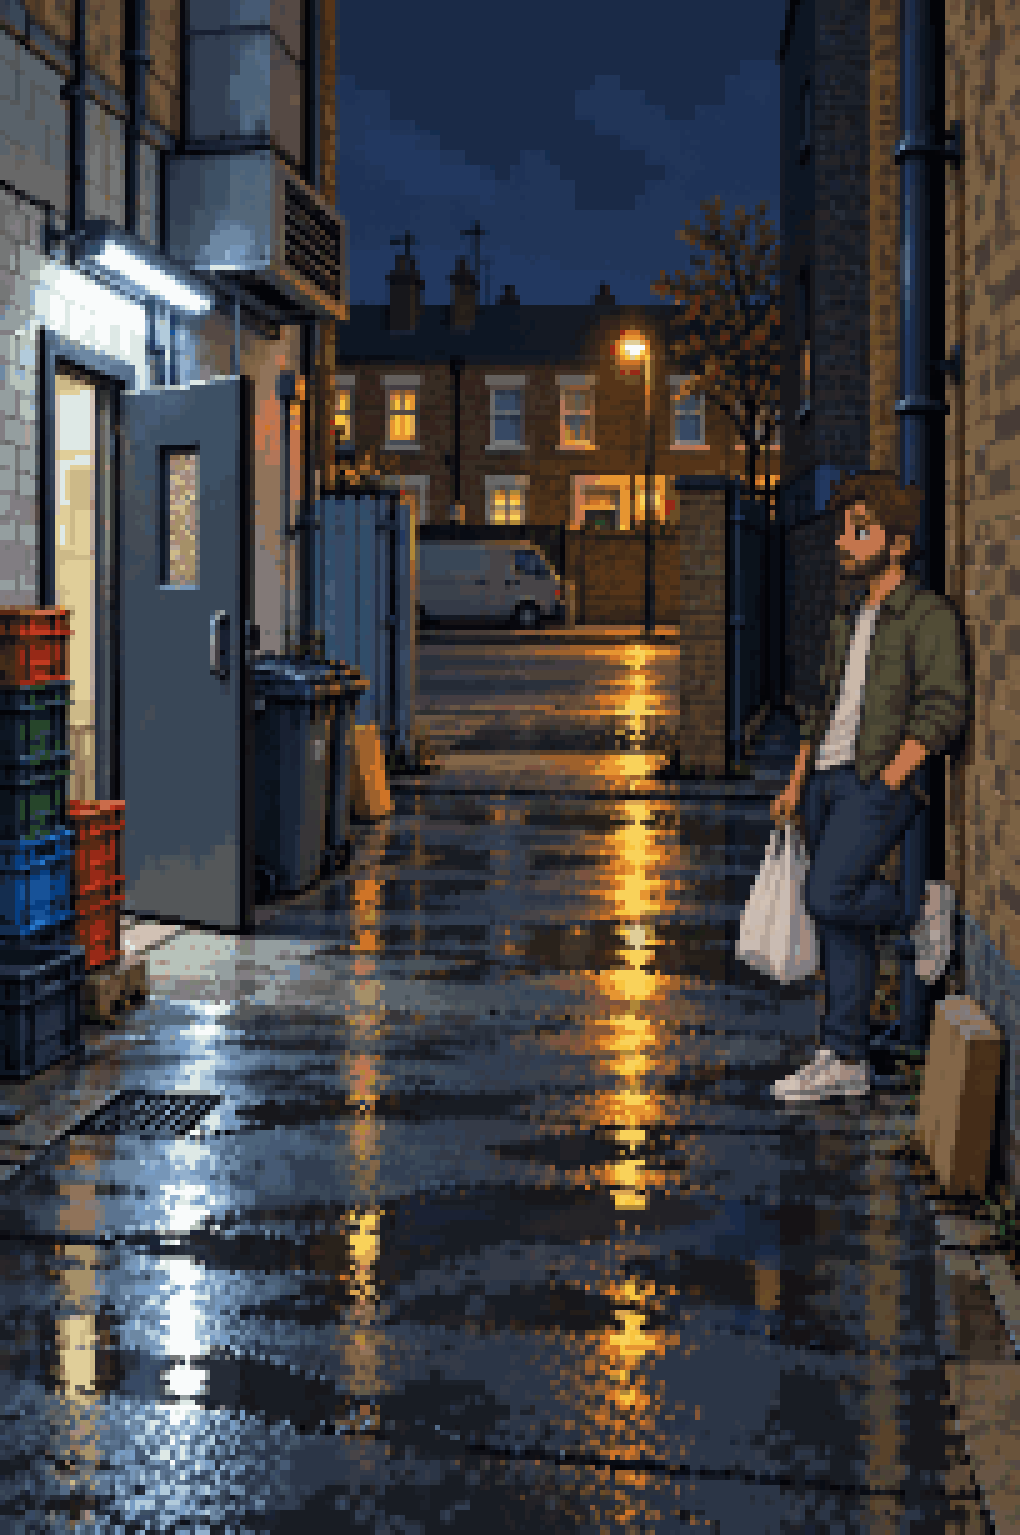
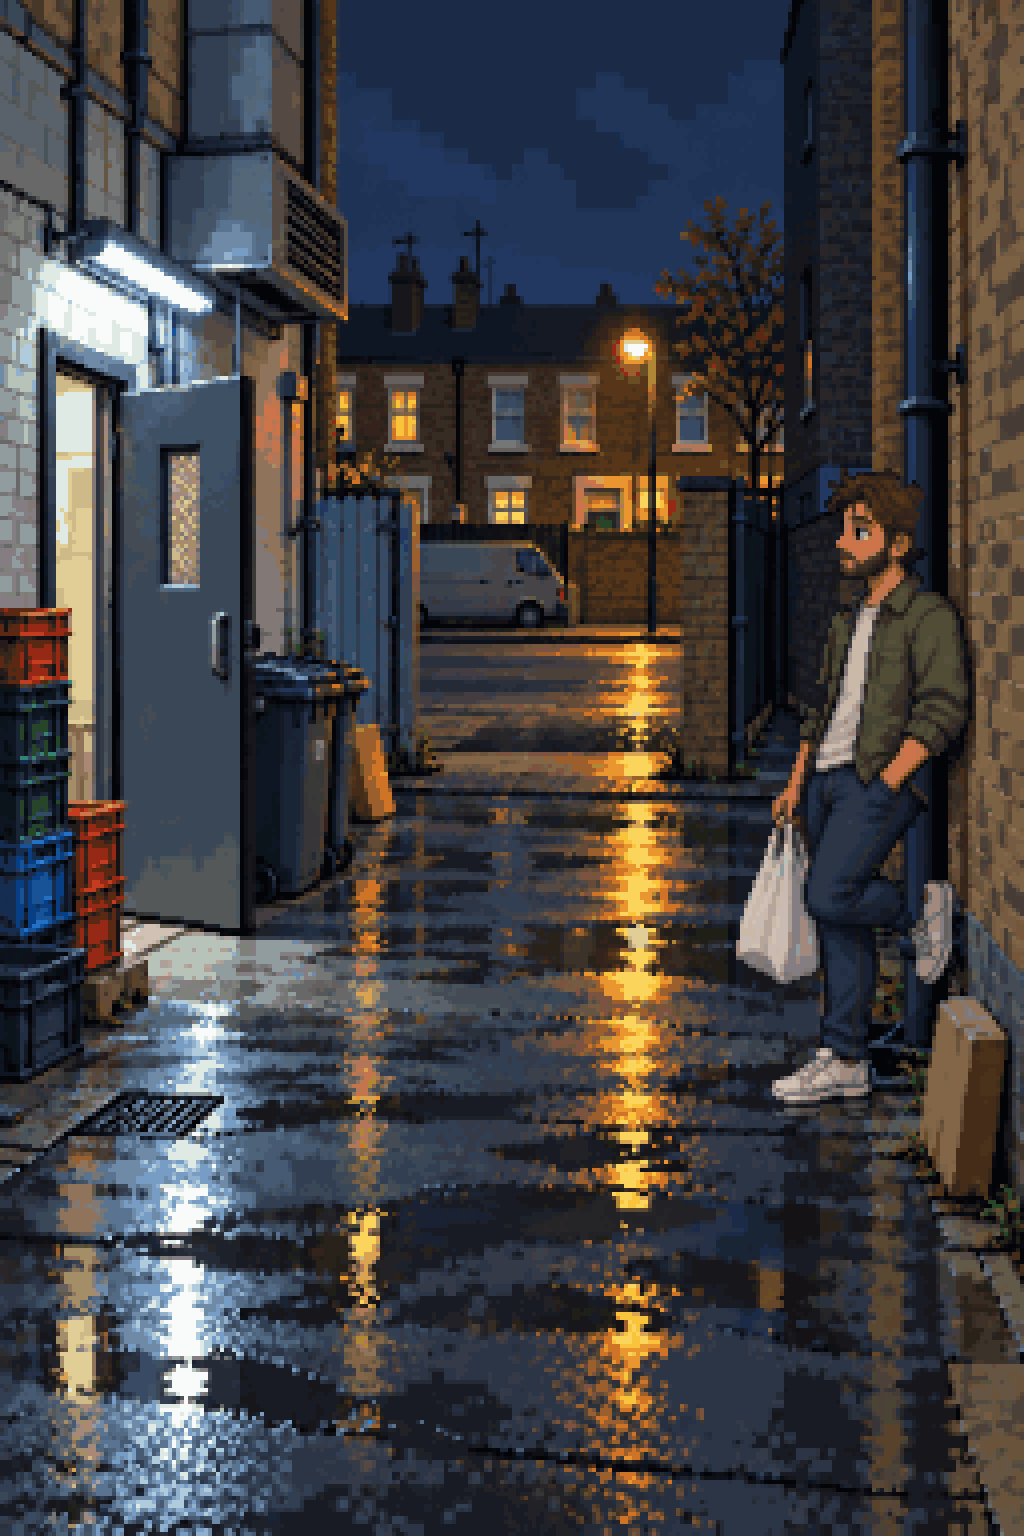
Plate compositor: grid 4 default; intro cards 1 and 5 re-rendered at 4px
Mile End yard plate rescaled to scale 4, compose defaults scale to 4,
storyboard prompt pack asks for 4x4 art pixels. Adds opt-in full_res
cut-outs and fixes the cut-out shadow path's undefined depth.

Claude-Session: https://claude.ai/code/session_014oKfzQK2ZYD8bTNcFtSqWp

diff --git a/tools/plate_compositor/compose.py b/tools/plate_compositor/compose.py
@@ -23,7 +23,7 @@ ROOT = HERE.parents[1]
 class Plate:
     def __init__(self, cfg: dict, actor_sprites: list[str]):
         self.cfg = cfg
-        self.scale = cfg["scale"]
+        self.scale = cfg.get("scale", 4)
         full = Image.open(ROOT / cfg["image"]).convert("RGB")
         self.W, self.H = full.width // self.scale, full.height // self.scale
         native = full.resize((self.W, self.H), Image.BOX)
@@ -126,6 +126,8 @@ class Plate:
 
     def compose(self, shot: dict) -> Image.Image:
         canvas = self.base.copy()
+        owner = np.full((self.H, self.W), -1)   # floor depth of whatever was painted last per pixel
+        full_res = []
         layers = []
         for a in shot["actors"]:
             if "cutout" in a:   # already posed, scaled and lit by the AI; placed where it was cut
@@ -138,9 +140,10 @@ class Plate:
             layers.append((a["feet_y"], "actor", (spr, a["feet_x"] - w // 2, a["feet_y"] - h, a)))
         for mask, depth in self.occluders:
             layers.append((depth, "occ", mask))
-        for _, kind, data in sorted(layers, key=lambda t: t[0]):   # painter's order by floor depth
+        for depth, kind, data in sorted(layers, key=lambda t: t[0]):   # painter's order by floor depth
             if kind == "occ":
                 canvas[data] = self.base[data]
+                owner[data] = depth
                 continue
             if kind == "cutout":
                 spr, a = data
@@ -148,7 +151,11 @@ class Plate:
                 if a.get("shadow"):
                     xs = np.nonzero(on.any(0))[0]
                     self.shadow(canvas, int(xs.mean()), depth, len(xs))
+                if a.get("full_res"):   # pasted after upscale at the AI's own pixel size
+                    full_res.append((depth, a["cutout"]))
+                    continue
                 canvas[on] = spr[..., :3][on]
+                owner[on] = depth
                 continue
             spr, x0, y0, a = data
             self.shadow(canvas, a["feet_x"], a["feet_y"], spr.shape[1])
@@ -160,8 +167,18 @@ class Plate:
             on = part[..., 3] > 0
             region = canvas[cy0:cy1, cx0:cx1]
             region[on] = part[..., :3][on]
+            owner[cy0:cy1, cx0:cx1][on] = depth
         img = Image.fromarray(self.snap(canvas).astype(np.uint8))
-        return img.resize((self.W * self.scale, self.H * self.scale), Image.NEAREST)
+        img = img.resize((self.W * self.scale, self.H * self.scale), Image.NEAREST)
+        if not full_res:
+            return img
+        out = np.asarray(img).copy()
+        owner_full = np.kron(owner, np.ones((self.scale, self.scale), int))
+        for depth, path in full_res:   # unsnapped, unlit; anything painted in front of it stays in front
+            cut = np.asarray(Image.open(ROOT / path).convert("RGBA"))[: out.shape[0], : out.shape[1]]
+            on = (cut[..., 3] >= 128) & (owner_full <= depth)
+            out[on] = cut[..., :3][on]
+        return Image.fromarray(out)
 
 
 def main() -> None:

diff --git a/tools/plate_compositor/README.md b/tools/plate_compositor/README.md
@@ -14,8 +14,8 @@ Output goes to `.scratch/plate-compositor/` by default (`--out DIR` to change).
 
 ## Step by step
 
-All coordinates are **native px** = full-res px ÷ `scale` (5 for the workshop). Read them off
-the full-res plate in any image editor (cursor position), then divide by 5.
+All coordinates are **native px** = full-res px ÷ `scale` (default 4; the workshop plate uses 5). Read
+them off the full-res plate in any image editor (cursor position), then divide by the plate's `scale`.
 
 ### A. Make a shot on an existing plate
 
@@ -61,6 +61,9 @@ plate*, then cut them out so the AI's background drift never reaches the final i
 5. In a shots file, add the actor as `{"cutout": "<out path>"}`. No position or size is needed
    because the cut-out is plate-sized and keeps its spot. Add `"shadow": true` only if the AI
    drew none. It mixes freely with normal sprite actors (`shots/james_workshop_lean_demo.json`).
+   If the AI drew the character with finer pixels than the plate's `scale` and grid-locking
+   blurs the face, add `"full_res": true`: the cut-out is pasted after the upscale, unsnapped,
+   still behind anything with a lower floor position.
 
 A cut-out only fits **that plate, that spot**. A different desk or room means generating again.
 
@@ -69,7 +72,9 @@ A cut-out only fits **that plate, that spot**. A different desk or room means ge
 1. Put the blank plate (no characters) in `assets/reference-plates/`.
 2. Copy `plates/james_workshop.json` to `plates/<plate_name>.json` and set `image`.
 3. `scale`: the plate's apparent pixel size in full-res px. Zoom in and count how wide one
-   "pixel" block is; 5 is typical for ChatGPT pixel art at ~937 px wide.
+   "pixel" block is. Default 4 (omit the key): plate prompts ask for ~4×4 px art pixels, and
+   ChatGPT draws characters at 3–4 px, so a coarser grid blurs faces. `james_workshop` stays 5
+   because its coordinates were traced at 5.
    If small saturated props (crates, signs) come out grey or brown on the review sheet, set
    `"quantize": "octree"` and raise `plate_colours` to ~96 (`plates/mile_end_yard.json`).
 4. `horizon_y`: the camera's eye level in native px, where a standing adult's eyes would
@@ -87,14 +92,14 @@ A cut-out only fits **that plate, that spot**. A different desk or room means ge
 
 ## Why sprites look pasted on
 
-AI pixel-art plates are pseudo-pixel art: about 5px "pixels" on no strict grid, with 250k+ colours.
+AI pixel-art plates are pseudo-pixel art: about 4–5px "pixels" on no strict grid, with 250k+ colours.
 A sprite dropped on top has a different pixel size, its own colours, and no lighting from the
 room. Each step below removes one of those mismatches.
 
 ## Pipeline (per shot)
 
-1. **Grid-lock.** Box-downscale the plate by `scale` (5) to its native size (187×335 for
-   the workshop). All compositing happens there, then a nearest-neighbour upscale. Plate and
+1. **Grid-lock.** Box-downscale the plate by `scale` (default 4) to its native size (256×384
+   for a 1024×1536 plate). All compositing happens there, then a nearest-neighbour upscale. Plate and
    sprites end up on the same pixel grid.
 2. **Palette-lock.** `plate_colours` (64) median-cut from the plate, plus `cast_colours` (20)
    from each actor's sprite, so costume colours the room lacks survive (otherwise James's blue

diff --git a/.claude/skills/event-storyboard/reference/prompt-pack.md b/.claude/skills/event-storyboard/reference/prompt-pack.md
@@ -31,7 +31,7 @@ Save as: <shot saveAs>   (upload on the shot's card; raw ChatGPT output → extr
 ## House lines (every plate prompt carries these)
 
 ```
-Genuine pixel art: visible pixel grid with roughly 5×5 screen pixels per art
+Genuine pixel art: visible pixel grid with roughly 4×4 screen pixels per art
 pixel, limited palette, dithered shading, crisp hard edges, no anti-aliasing, no
 painterly blur, no vector/cel-shaded linework.
 Grounded, realistic London colour: brick, shopfront paint, wet pavement, sodium
